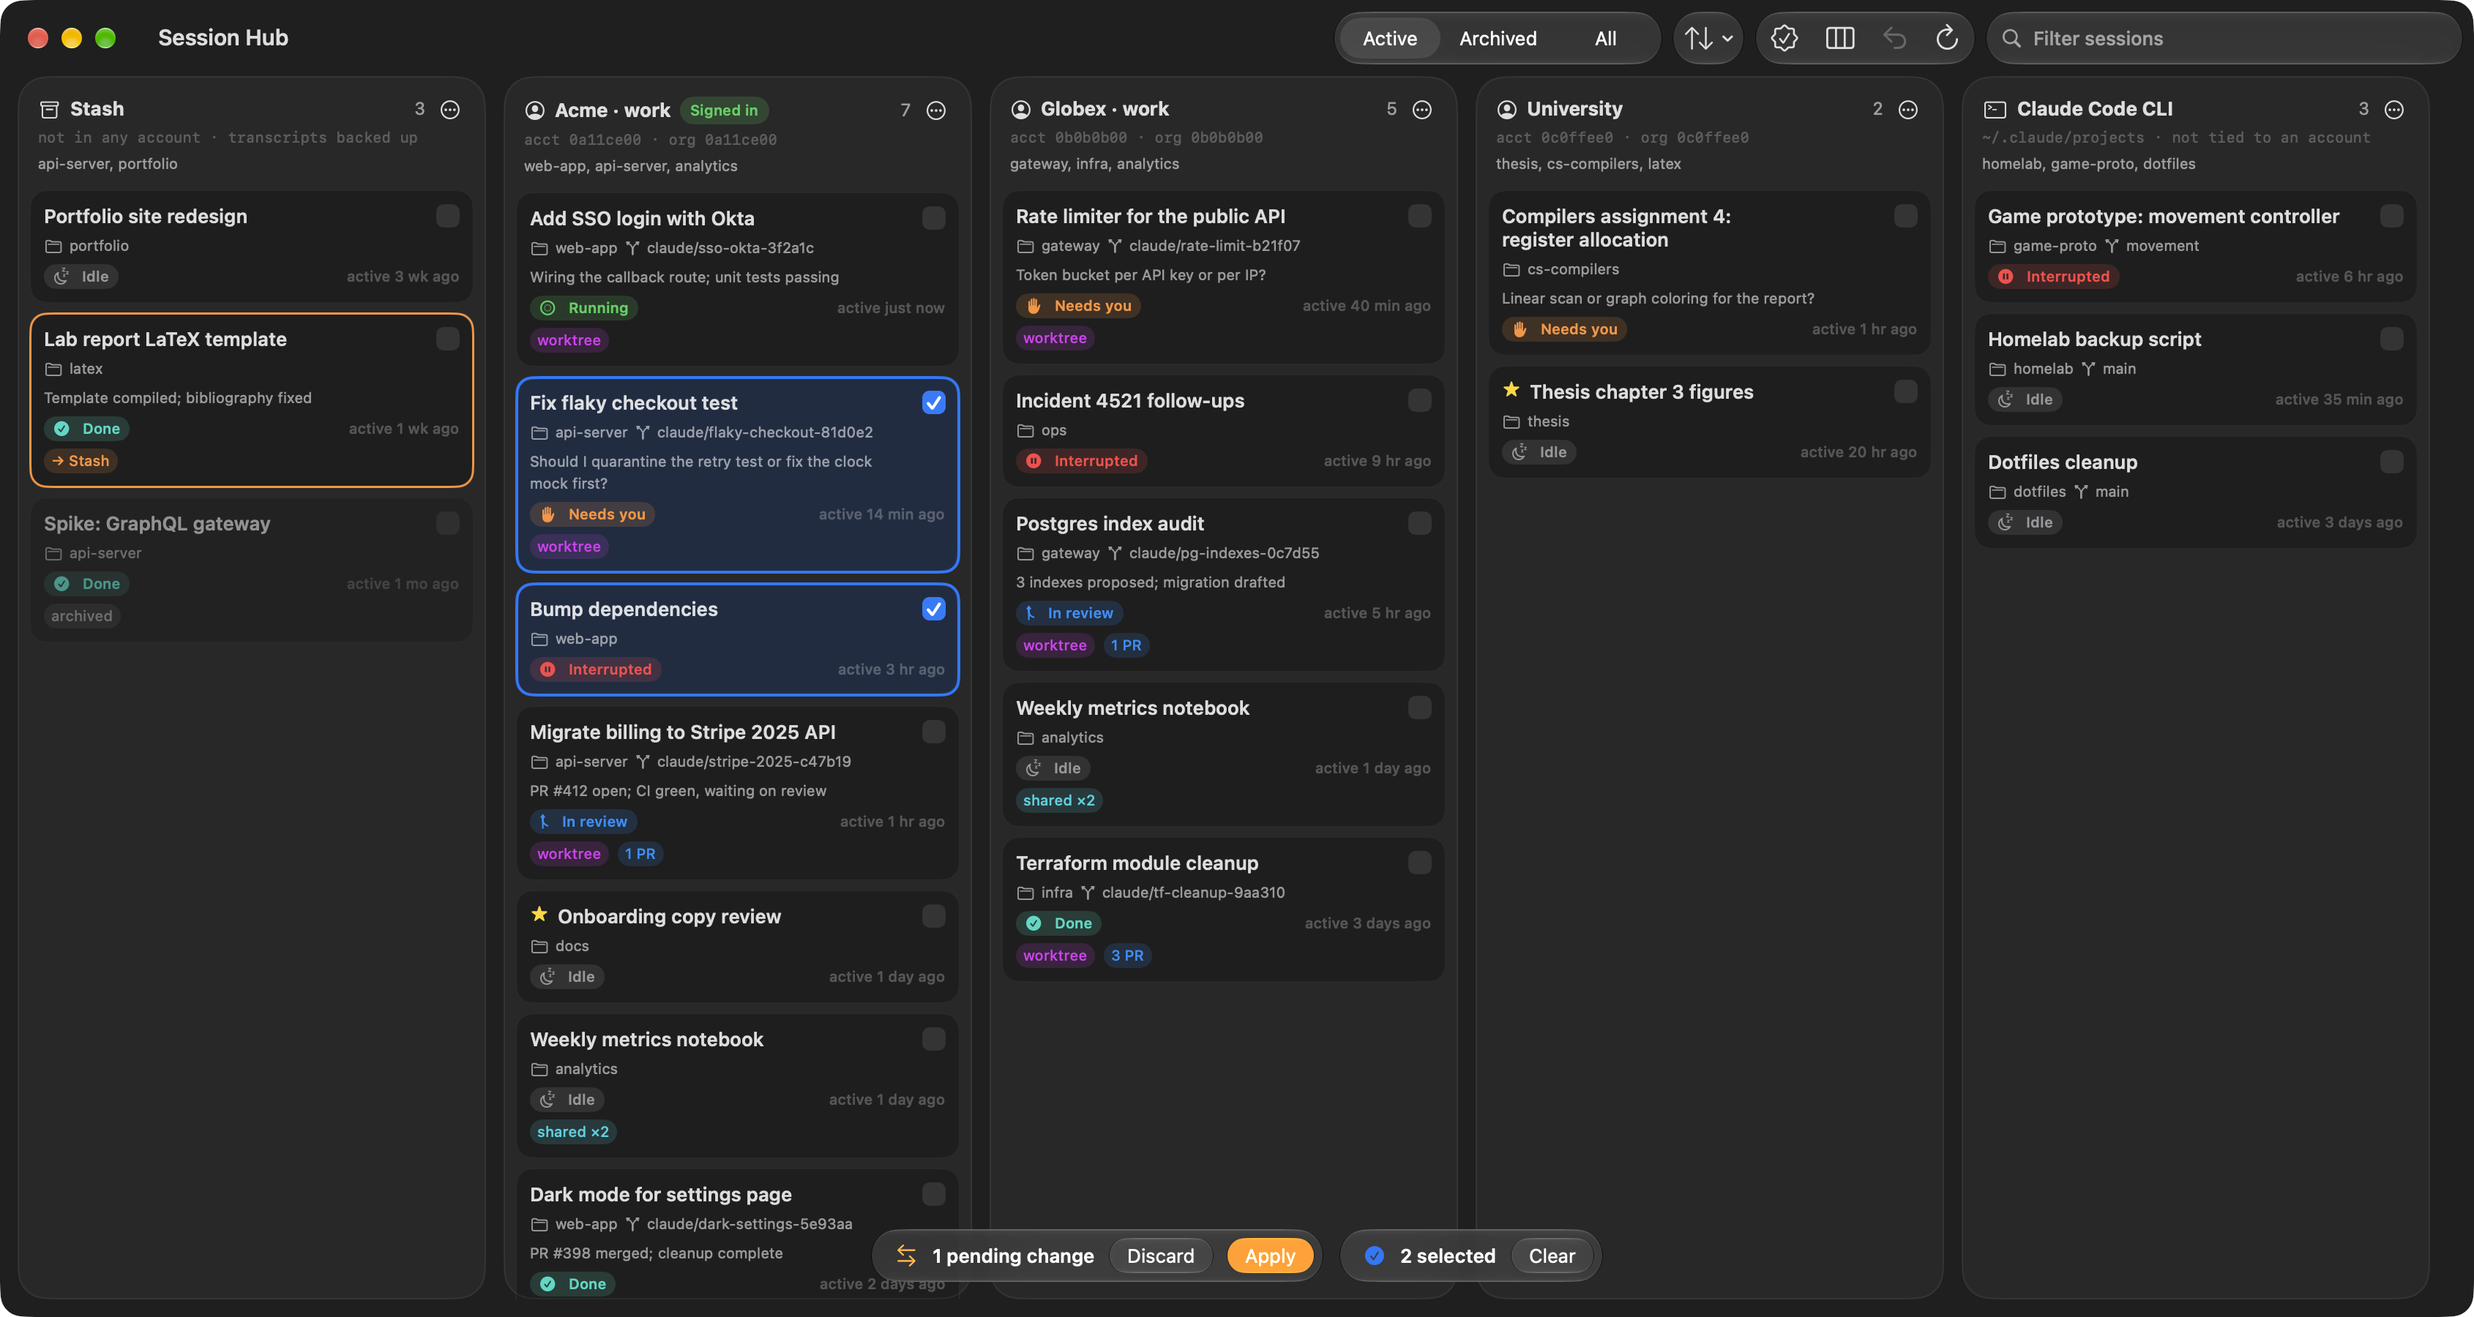
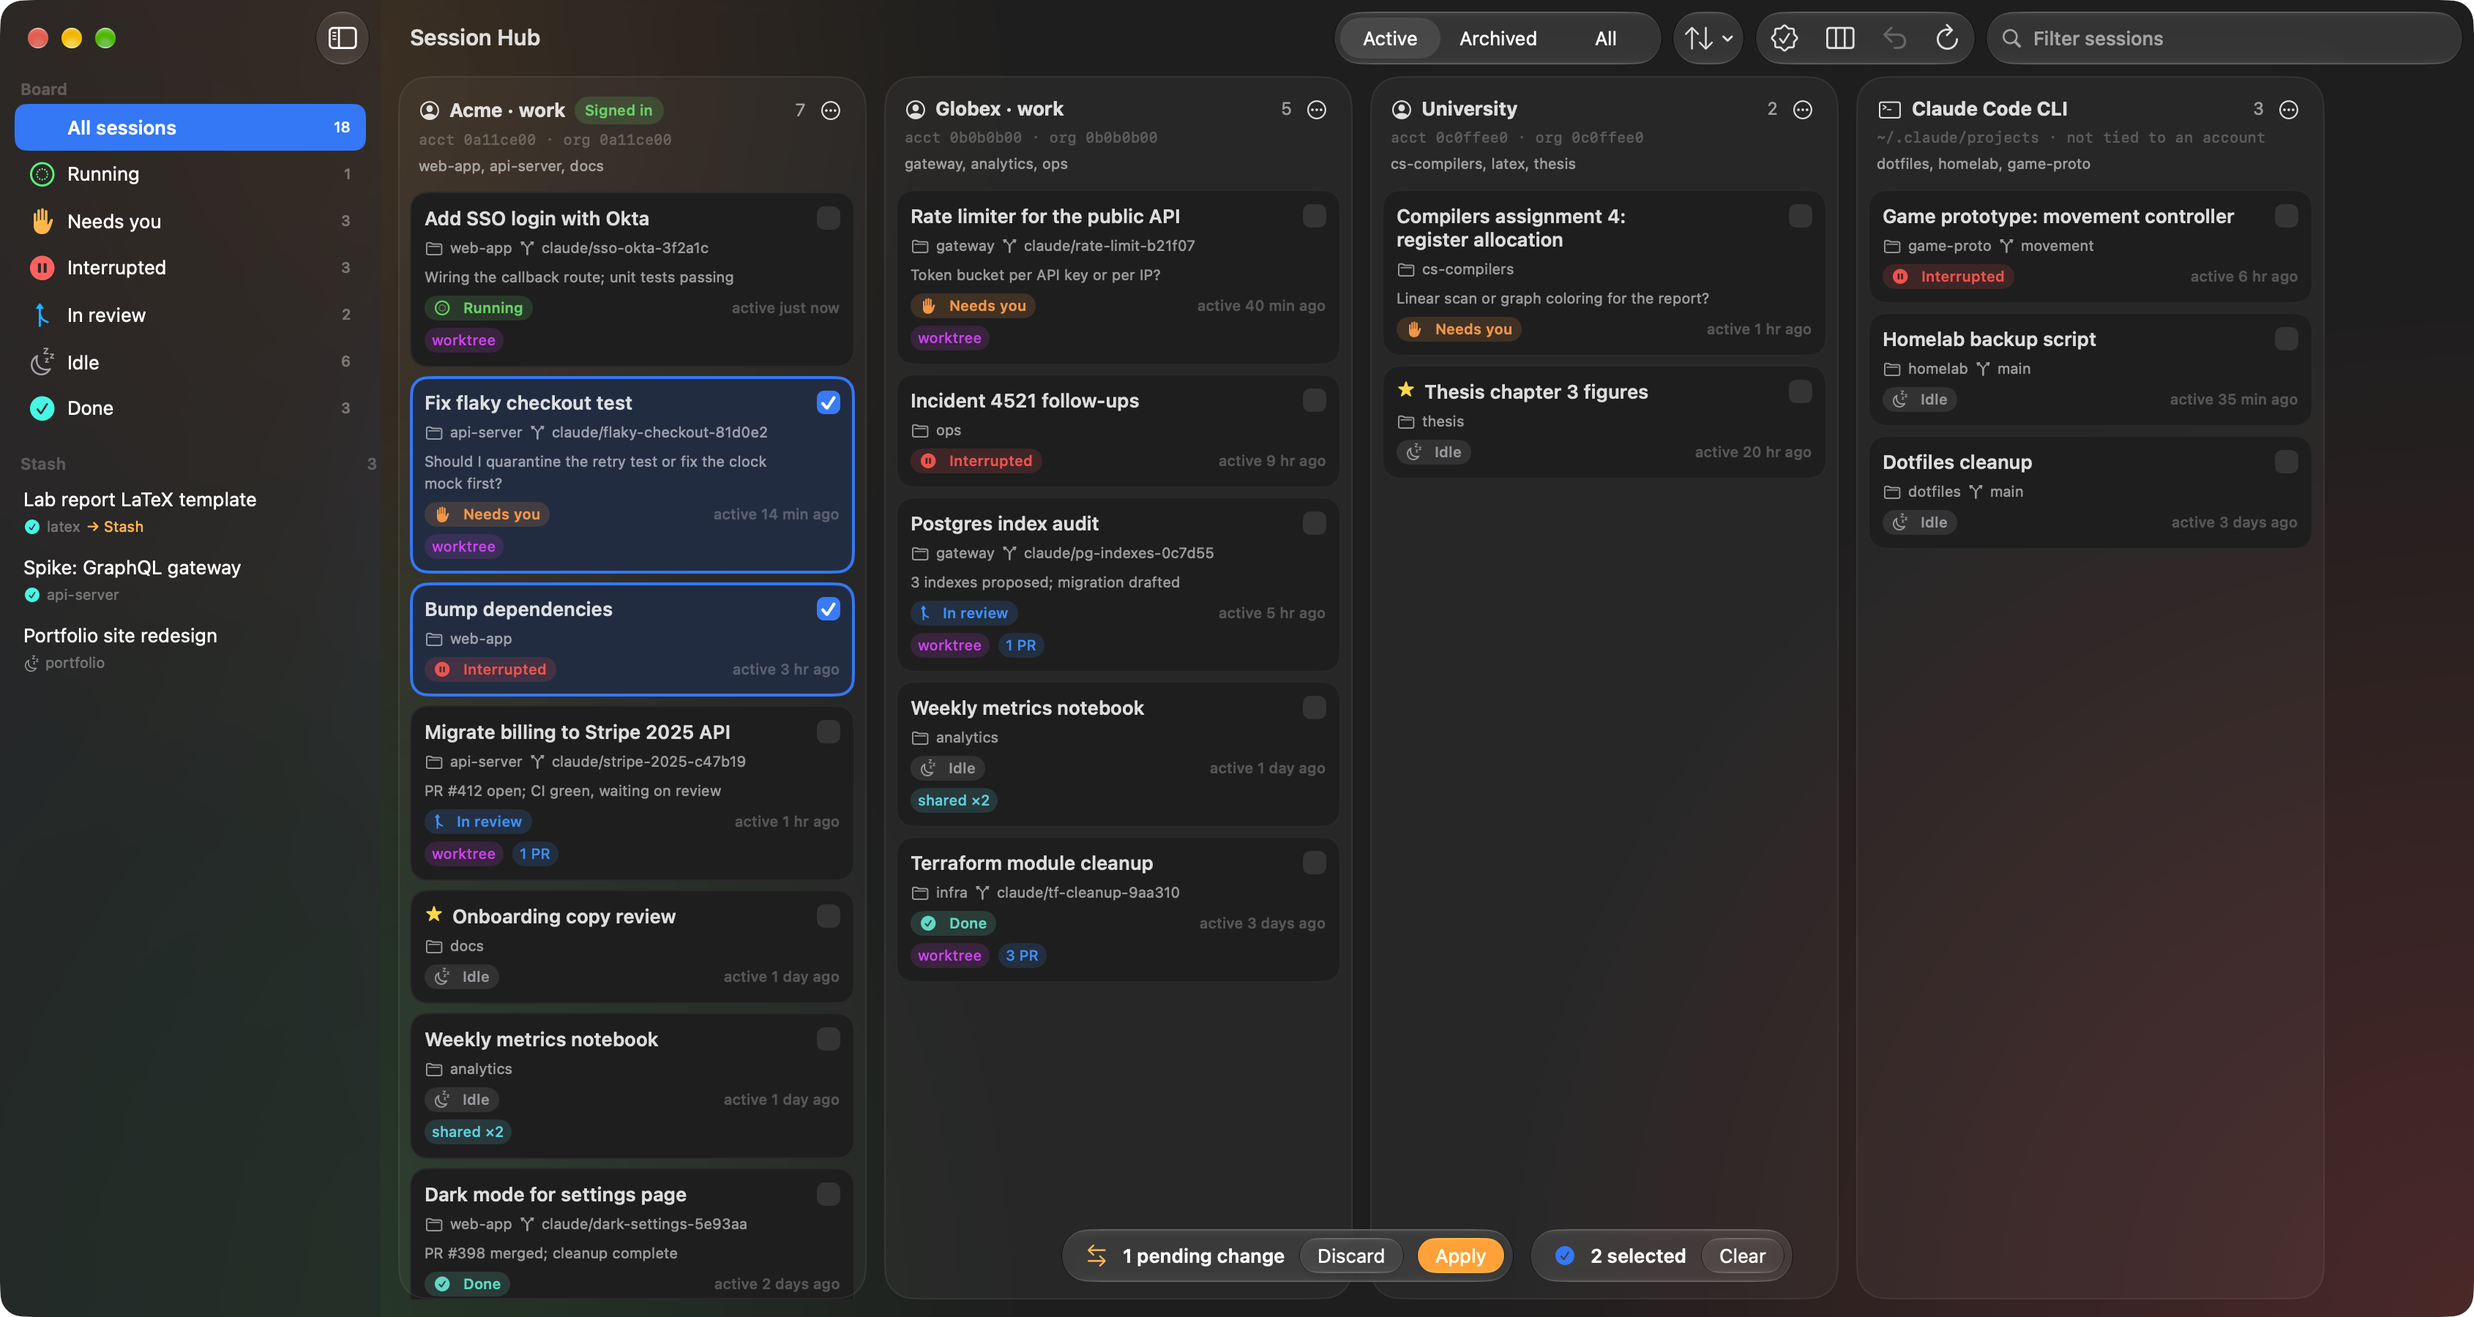
Move the Stash into a standard sidebar with status filters; ambient backdrop
- NavigationSplitView sidebar (Liquid Glass on macOS 26): Board status filters with
  counts that filter every column, and the Stash (drop cards on the sidebar to stash)
- Backdrop tinted by board state extends under the sidebar and toolbar via
  backgroundExtensionEffect, so the glass picks up color without mirroring cards
- Refreshed README screenshot

diff --git a/Sources/SessionHub/Views.swift b/Sources/SessionHub/Views.swift
@@ -82,25 +82,29 @@ struct BoardView: View {
     @Namespace private var dock
 
     var body: some View {
-        // The board keeps an even margin from every window edge; no top margin because the toolbar
-        // already leaves the same gap below its controls as above them.
-        HStack(alignment: .top, spacing: 0) {
-            // The Stash is pinned like a sidebar; account columns scroll beside it.
-            if store.columns.contains(where: { $0.kind == .stash }) {
-                columnView(store.column("stash"))
-                    .padding(.leading, Metrics.windowPadding)
-                    .padding(.bottom, Metrics.windowPadding)
-            }
-            ScrollView(.horizontal) {
-                HStack(alignment: .top, spacing: Metrics.windowPadding) {
-                    ForEach(store.orderedColumns.filter { $0.kind != .stash && !store.prefs.hiddenColumns.contains($0.id) }) { column in
-                        columnView(column)
-                    }
-                }
-                .padding([.horizontal, .bottom], Metrics.windowPadding)
-            }
-            .scrollIndicators(.never)
+        // A standard sidebar (Liquid Glass on macOS 26) holds status filters and the Stash.
+        NavigationSplitView {
+            SidebarView(archiveFilter: archiveFilter) { group, mode in copyCommands(group, mode) }
+                .navigationSplitViewColumnWidth(min: 220, ideal: 260, max: 360)
+        } detail: {
+            board
         }
+    }
+
+    /// The board keeps an even margin from the window edges; no top margin because the toolbar
+    /// already leaves the same gap below its controls as above them.
+    private var board: some View {
+        ScrollView(.horizontal) {
+            HStack(alignment: .top, spacing: Metrics.windowPadding) {
+                ForEach(store.orderedColumns.filter { $0.kind != .stash && !store.prefs.hiddenColumns.contains($0.id) }) { column in
+                    columnView(column)
+                }
+            }
+            .padding([.horizontal, .bottom], Metrics.windowPadding)
+        }
+        .scrollIndicators(.never)
+        // Only the backdrop extends under the sidebar and toolbar; cards are never mirrored.
+        .background { AmbientBackdrop().extendsUnderSidebar() }
         .floatingToolbar()
         // Floating controls over the content: they never push the board around.
         .overlay(alignment: .bottom) { dockView }
@@ -291,7 +295,9 @@ struct ColumnView: View {
     private var items: [Session] {
         let q = search.lowercased()
         let filtered = (store.columnItems[column.id] ?? []).filter { s in
-            (column.kind == .stash || archiveFilter.includes(s)) && (q.isEmpty || s.searchKey.contains(q))
+            (column.kind == .stash || archiveFilter.includes(s))
+                && (store.statusFilter.map { $0 == s.status } ?? true)
+                && (q.isEmpty || s.searchKey.contains(q))
         }
         guard sortByStatus else { return filtered }   // already newest first
         return filtered.sorted { ($0.status.rawValue, $1.lastActivity) < ($1.status.rawValue, $0.lastActivity) }
@@ -702,16 +708,7 @@ struct StatusChip: View {
     let status: SessionStatus
     let reason: String
 
-    private var color: Color {
-        switch status {
-        case .running: return .green
-        case .needsYou: return .orange
-        case .interrupted: return .red
-        case .inReview: return .blue
-        case .idle: return .gray
-        case .done: return .mint
-        }
-    }
+    private var color: Color { status.color }
 
     var body: some View {
         Label(status.label, systemImage: status.symbol)
@@ -782,5 +779,148 @@ struct ShapePopover: View {
         }
         .padding(16)
         .frame(width: 440)
+    }
+}
+
+/// A standard macOS sidebar, like Music's: status filters (with counts) and the Stash.
+/// Dropping cards anywhere on it stashes them; dragging a stashed row onto an account restores it.
+struct SidebarView: View {
+    @Environment(Store.self) private var store
+    let archiveFilter: ArchiveFilter
+    let onAction: ([Session], Launcher.Mode) -> Void
+    @State private var dropTargeted = false
+
+    var body: some View {
+        @Bindable var store = store
+        let boardSessions = store.sessions.filter { !$0.isStashed && archiveFilter.includes($0) }
+        let counts = Dictionary(grouping: boardSessions, by: \.status).mapValues(\.count)
+        let stashed = store.columnItems["stash"] ?? []
+
+        List(selection: $store.sidebarFilter) {
+            Section("Board") {
+                Label { Text("All sessions") } icon: {
+                    Image(systemName: "rectangle.split.3x1").foregroundStyle(.tint)
+                }
+                .badge(boardSessions.count)
+                .tag(SidebarFilter.all)
+                ForEach(SessionStatus.allCases, id: \.self) { status in
+                    Label { Text(status.label) } icon: {
+                        Image(systemName: status.symbol).foregroundStyle(status.color)
+                    }
+                    .badge(counts[status] ?? 0)
+                    .tag(SidebarFilter.status(status))
+                }
+            }
+            Section {
+                if stashed.isEmpty {
+                    Text("Drop sessions here to stash them")
+                        .font(.callout).foregroundStyle(.secondary)
+                }
+                ForEach(stashed) { s in
+                    StashRow(session: s)
+                        .draggable(store.dragPayload(for: s)) { DragPreview(session: s, count: 1) }
+                        .contextMenu { stashMenu(s) }
+                }
+            } header: {
+                HStack {
+                    Text("Stash")
+                    Spacer()
+                    if !stashed.isEmpty { Text("\(stashed.count)").monospacedDigit() }
+                }
+            }
+        }
+        .listStyle(.sidebar)
+        .overlay {
+            if dropTargeted {
+                RoundedRectangle(cornerRadius: 12, style: .continuous)
+                    .strokeBorder(.tint, lineWidth: 2)
+                    .padding(6)
+                    .allowsHitTesting(false)
+            }
+        }
+        .dropDestination(for: String.self) { payloads, _ in
+            let ids = payloads.filter { !$0.hasPrefix(ColumnView.dragPrefix) }
+                .flatMap { $0.split(separator: "\n").map(String.init) }
+            let stash = store.column("stash")
+            for id in ids where !(store.sessions.first { $0.id == id }?.isStashed ?? true) {
+                _ = store.drop(cardId: id, on: stash, copy: false)
+            }
+            store.clearSelection()
+            return !ids.isEmpty
+        } isTargeted: { dropTargeted = $0 }
+    }
+
+    @ViewBuilder private func stashMenu(_ s: Session) -> some View {
+        Menu("Restore to") {
+            ForEach(store.orderedColumns.filter { if case .desktop = $0.kind { return true } else { return false } }) { c in
+                Button(store.name(for: c)) { _ = store.drop(cardId: s.id, on: c, copy: false) }
+            }
+        }
+        if store.pending[s.id] != nil { Button("Cancel pending change") { store.pending[s.id] = nil } }
+        Divider()
+        Button("Copy fork command") { onAction([s], .fork) }
+        Button("Copy resume command") { onAction([s], .resume) }
+        Divider()
+        Button("Reveal transcript in Finder") { NSWorkspace.shared.activateFileViewerSelecting([s.transcriptURL]) }
+    }
+}
+
+struct StashRow: View {
+    @Environment(Store.self) private var store
+    let session: Session
+
+    var body: some View {
+        let move = store.pending[session.id]
+        VStack(alignment: .leading, spacing: 2) {
+            Text(session.title).lineLimit(1)
+            HStack(spacing: 4) {
+                Image(systemName: session.status.symbol).foregroundStyle(session.status.color)
+                Text(session.repoName)
+                if let m = move { Text("→ " + store.name(for: store.column(m.to))).foregroundStyle(.orange) }
+            }
+            .font(.caption).foregroundStyle(.secondary).lineLimit(1)
+        }
+        .padding(.vertical, 2)
+        .help(session.statusReason)
+    }
+}
+
+extension SessionStatus {
+    var color: Color {
+        switch self {
+        case .running: return .green
+        case .needsYou: return .orange
+        case .interrupted: return .red
+        case .inReview: return .blue
+        case .idle: return .gray
+        case .done: return .mint
+        }
+    }
+}
+
+/// A soft, low-contrast wash of the board's status colors behind the columns. The sidebar and
+/// toolbar glass refract it, the way Music's sidebar picks up album artwork.
+struct AmbientBackdrop: View {
+    @Environment(Store.self) private var store
+
+    /// The most prominent attention states on the board, most urgent first.
+    private var tints: [Color] {
+        let active = store.sessions.filter { !$0.isArchived && !$0.isStashed }
+        let counts = Dictionary(grouping: active, by: \.status).mapValues(\.count)
+        let order: [SessionStatus] = [.needsYou, .interrupted, .running, .inReview]
+        let present = order.filter { (counts[$0] ?? 0) > 0 }.map(\.color)
+        return present.isEmpty ? [.accentColor] : Array(present.prefix(3))
+    }
+
+    var body: some View {
+        let anchors: [UnitPoint] = [.topLeading, .bottomTrailing, .bottomLeading]
+        ZStack {
+            Color(nsColor: .windowBackgroundColor)
+            ForEach(Array(tints.enumerated()), id: \.offset) { i, color in
+                RadialGradient(colors: [color.opacity(0.22), .clear], center: anchors[i], startRadius: 0, endRadius: 700)
+            }
+        }
+        .drawingGroup()
+        .ignoresSafeArea()
     }
 }

diff --git a/Sources/SessionHub/Glass.swift b/Sources/SessionHub/Glass.swift
@@ -36,6 +36,13 @@ extension View {
         if #available(macOS 15, *) { toolbarBackgroundVisibility(.hidden, for: .windowToolbar) } else { self }
     }
 
+    /// Extends this view's content (mirrored and blurred) underneath the floating sidebar, so the
+    /// sidebar's glass picks up the content's color, as Music does with its artwork.
+    @ViewBuilder
+    func extendsUnderSidebar() -> some View {
+        if #available(macOS 26, *) { backgroundExtensionEffect() } else { self }
+    }
+
     /// Soft fade where scrolling content meets the toolbar.
     @ViewBuilder
     func softScrollEdge() -> some View {

diff --git a/Sources/SessionHub/Store.swift b/Sources/SessionHub/Store.swift
@@ -23,6 +23,12 @@ final class Store {
     var message: String?
     var lastJournal: URL?
     var hiddenNonLocal = 0
+    /// Sidebar selection: all sessions, or only one status across every column.
+    var sidebarFilter: SidebarFilter? = .all
+    var statusFilter: SessionStatus? {
+        if case let .status(s) = sidebarFilter { return s }
+        return nil
+    }
     /// Selected card ids (`Session.id`).
     var selection: Set<String> = []
     /// Latest observed data shape and how it differs from the baseline.

diff --git a/Sources/SessionHub/Models.swift b/Sources/SessionHub/Models.swift
@@ -178,3 +178,8 @@ enum SessionStatus: Int, CaseIterable, Comparable {
         return (.idle, "Finished its turn; nothing pending")
     }
 }
+
+enum SidebarFilter: Hashable {
+    case all
+    case status(SessionStatus)
+}

diff --git a/README.md b/README.md
@@ -25,7 +25,8 @@ A small macOS app for people who switch between several Claude accounts. It show
   | Idle | Claude finished its turn and nothing is pending |
   | Done | Every PR is merged or closed, or the summary says it's complete. Each column's ⋯ menu has **Stash all Done** |
 - **Data shape tracking.** `Schema/claude-storage-baseline.json` records how Claude stores sessions today: the fields and types in each session file, the record types in conversation files, known status values, the folder layout, and the Claude versions it came from. Every scan compares against it. If a field or folder Session Hub depends on disappears or changes type, moving and stashing pause. New fields or values show as informational changes you can accept as the new baseline. Each time the set of differences changes, a snapshot tagged with the Claude versions is saved in `~/Library/Application Support/SessionHub/schema/snapshots/`. Regenerate the bundled baseline with `SessionHub --schema > Schema/claude-storage-baseline.json`.
-- **Stash.** A pinned column for sessions you want to keep but take out of every account. Stashed session files live in `~/Library/Application Support/SessionHub/stash/`, so no Claude Desktop login lists them. Stashing also backs up the conversation transcript, since Claude Code's cleanup can delete old ones. Drag a stashed session onto an account to restore it.
+- **Sidebar.** A standard macOS sidebar (Liquid Glass on macOS 26) with status filters and counts, plus the Stash. Click a status to show only those sessions in every column. A soft backdrop tinted by the board's state (orange when something needs you, red when interrupted, green when running, blue in review) sits behind the board, so the glass sidebar and toolbar pick up its color.
+- **Stash.** Lives in the sidebar: sessions you want to keep you want to keep but take out of every account. Stashed session files live in `~/Library/Application Support/SessionHub/stash/`, so no Claude Desktop login lists them. Stashing also backs up the conversation transcript, since Claude Code's cleanup can delete old ones. Drag a stashed session onto an account to restore it.
 - **Bulk select.** Every card has a checkbox. Click a card to select it (it gets a highlighted border), ⌘-click to add or remove cards, and ⇧-click to select a range. Dragging any selected card moves the whole selection, and right-click actions apply to all selected cards.
 - **Archive filter.** Switch between Active, Archived, or All sessions from the toolbar.
 - **Liquid Glass design.** On macOS 26 and later, the toolbar and a floating dock (pending changes, selection, messages) use Liquid Glass, while columns and cards stay solid, following Apple's rule that glass belongs to controls rather than content. Earlier macOS versions fall back to standard materials.
